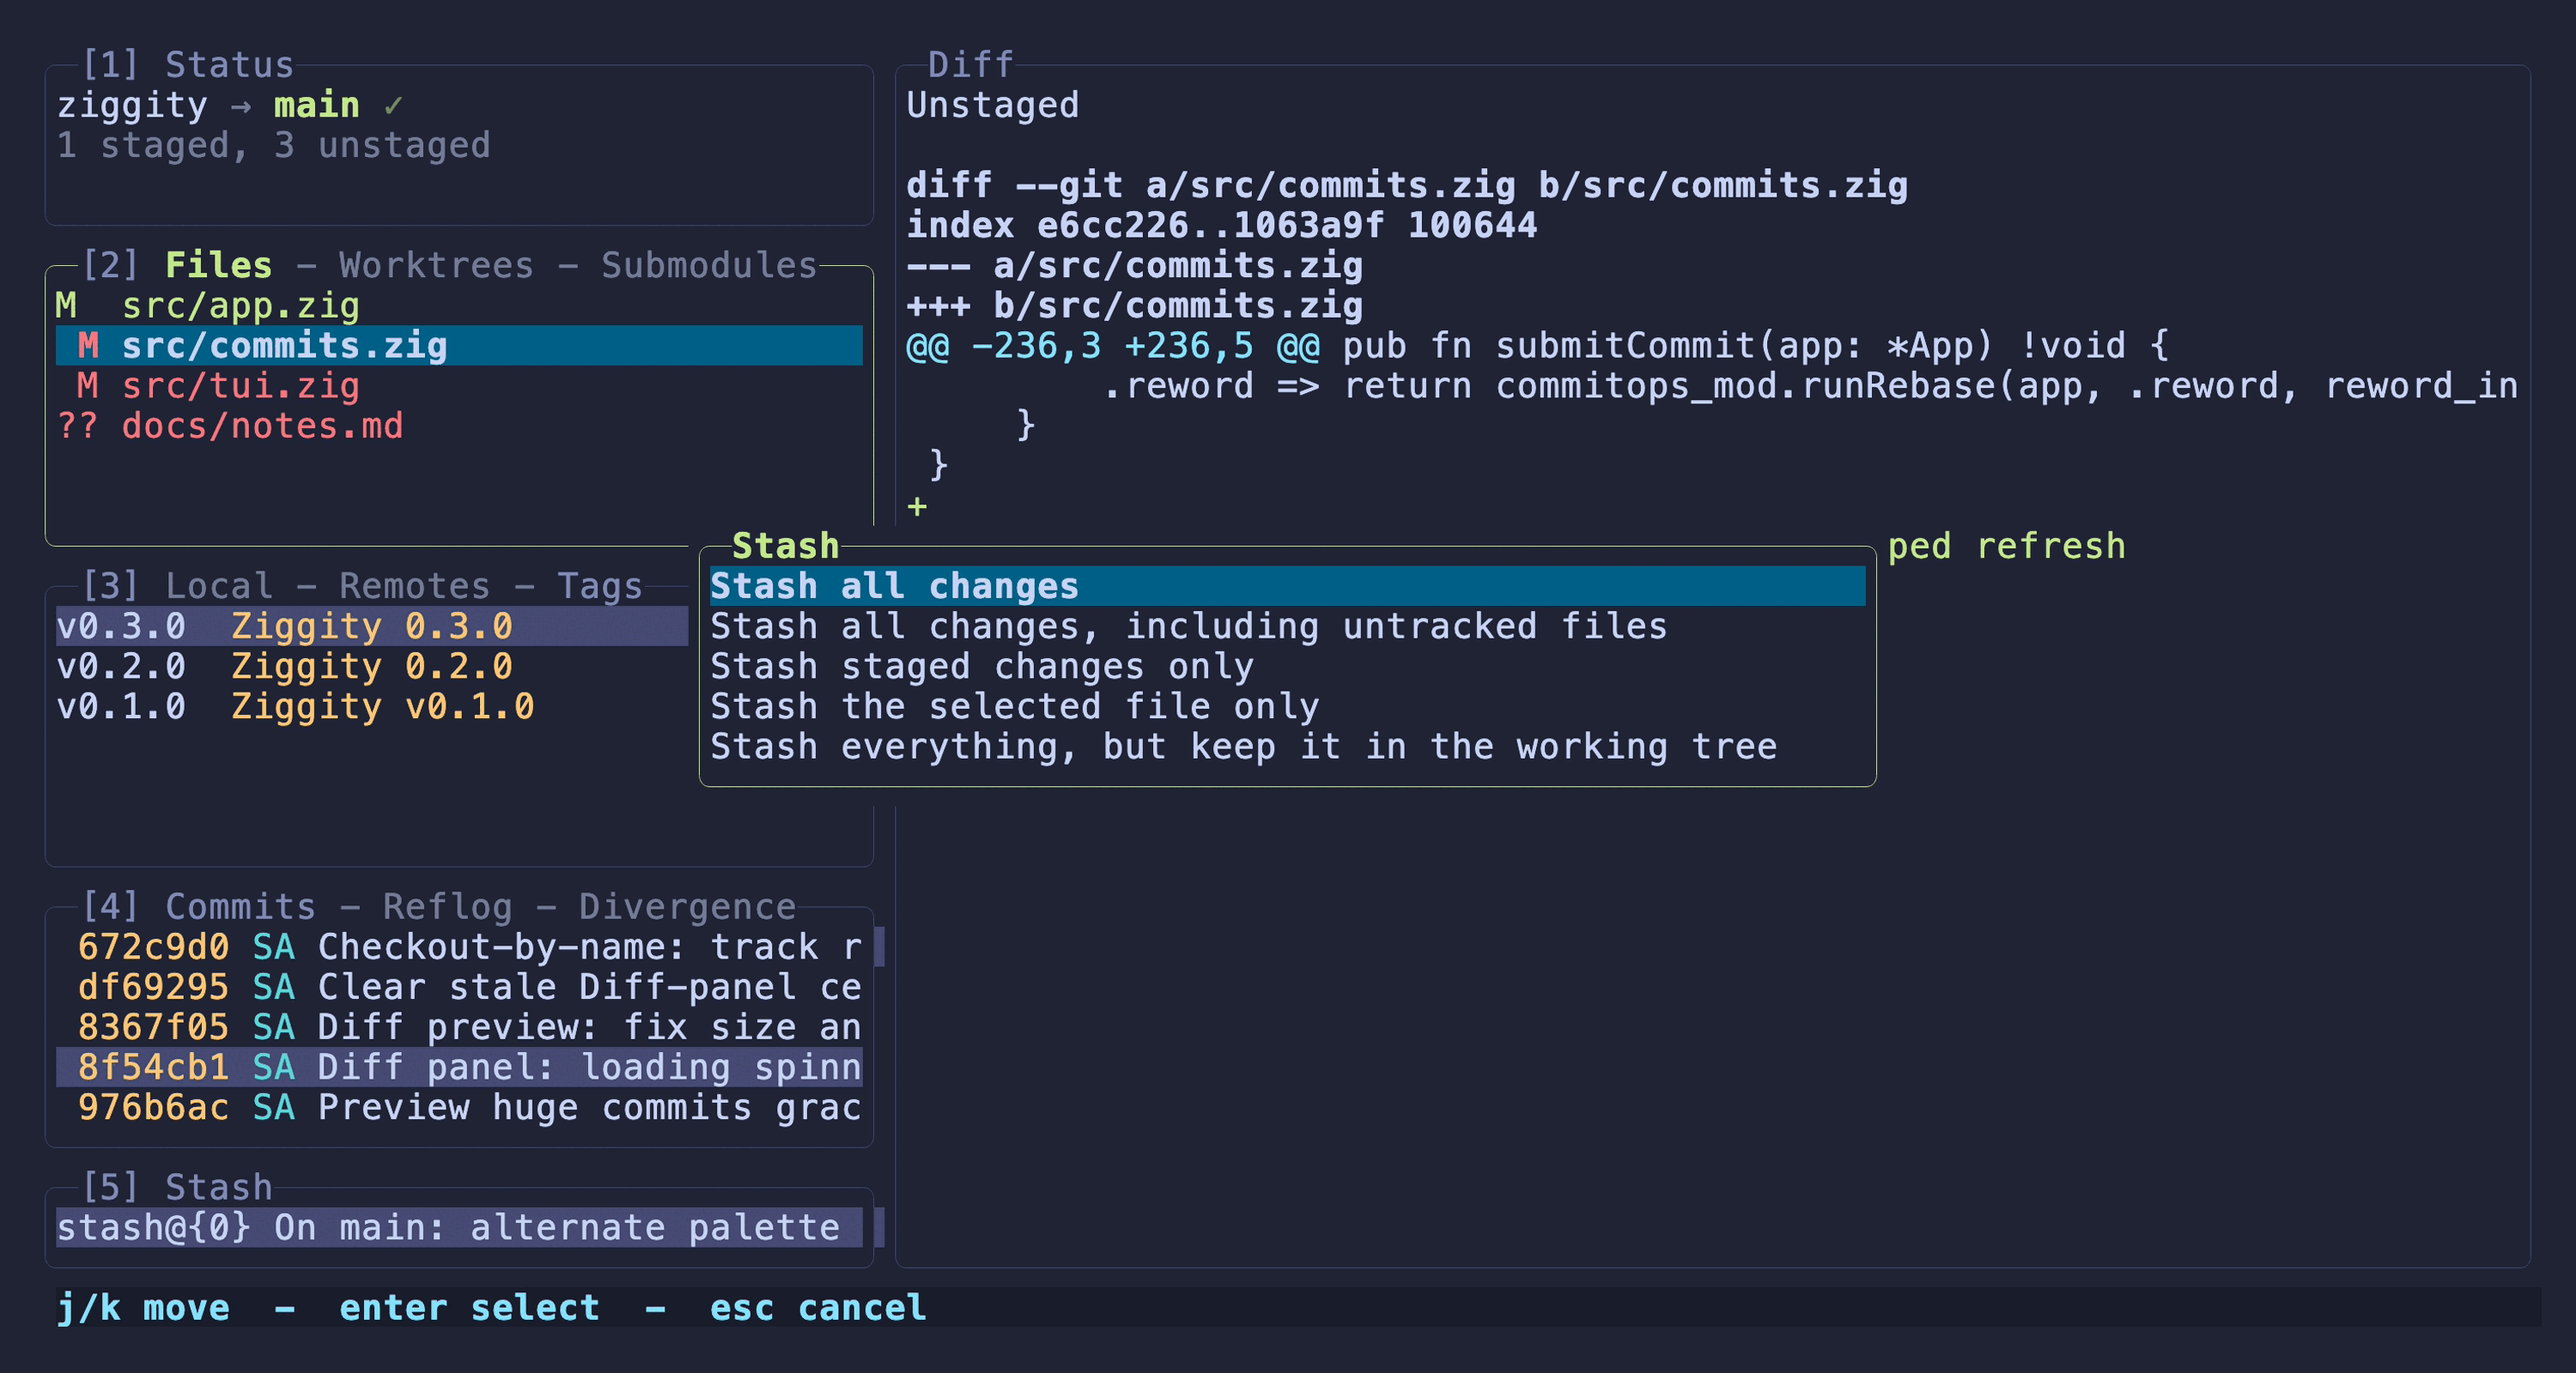
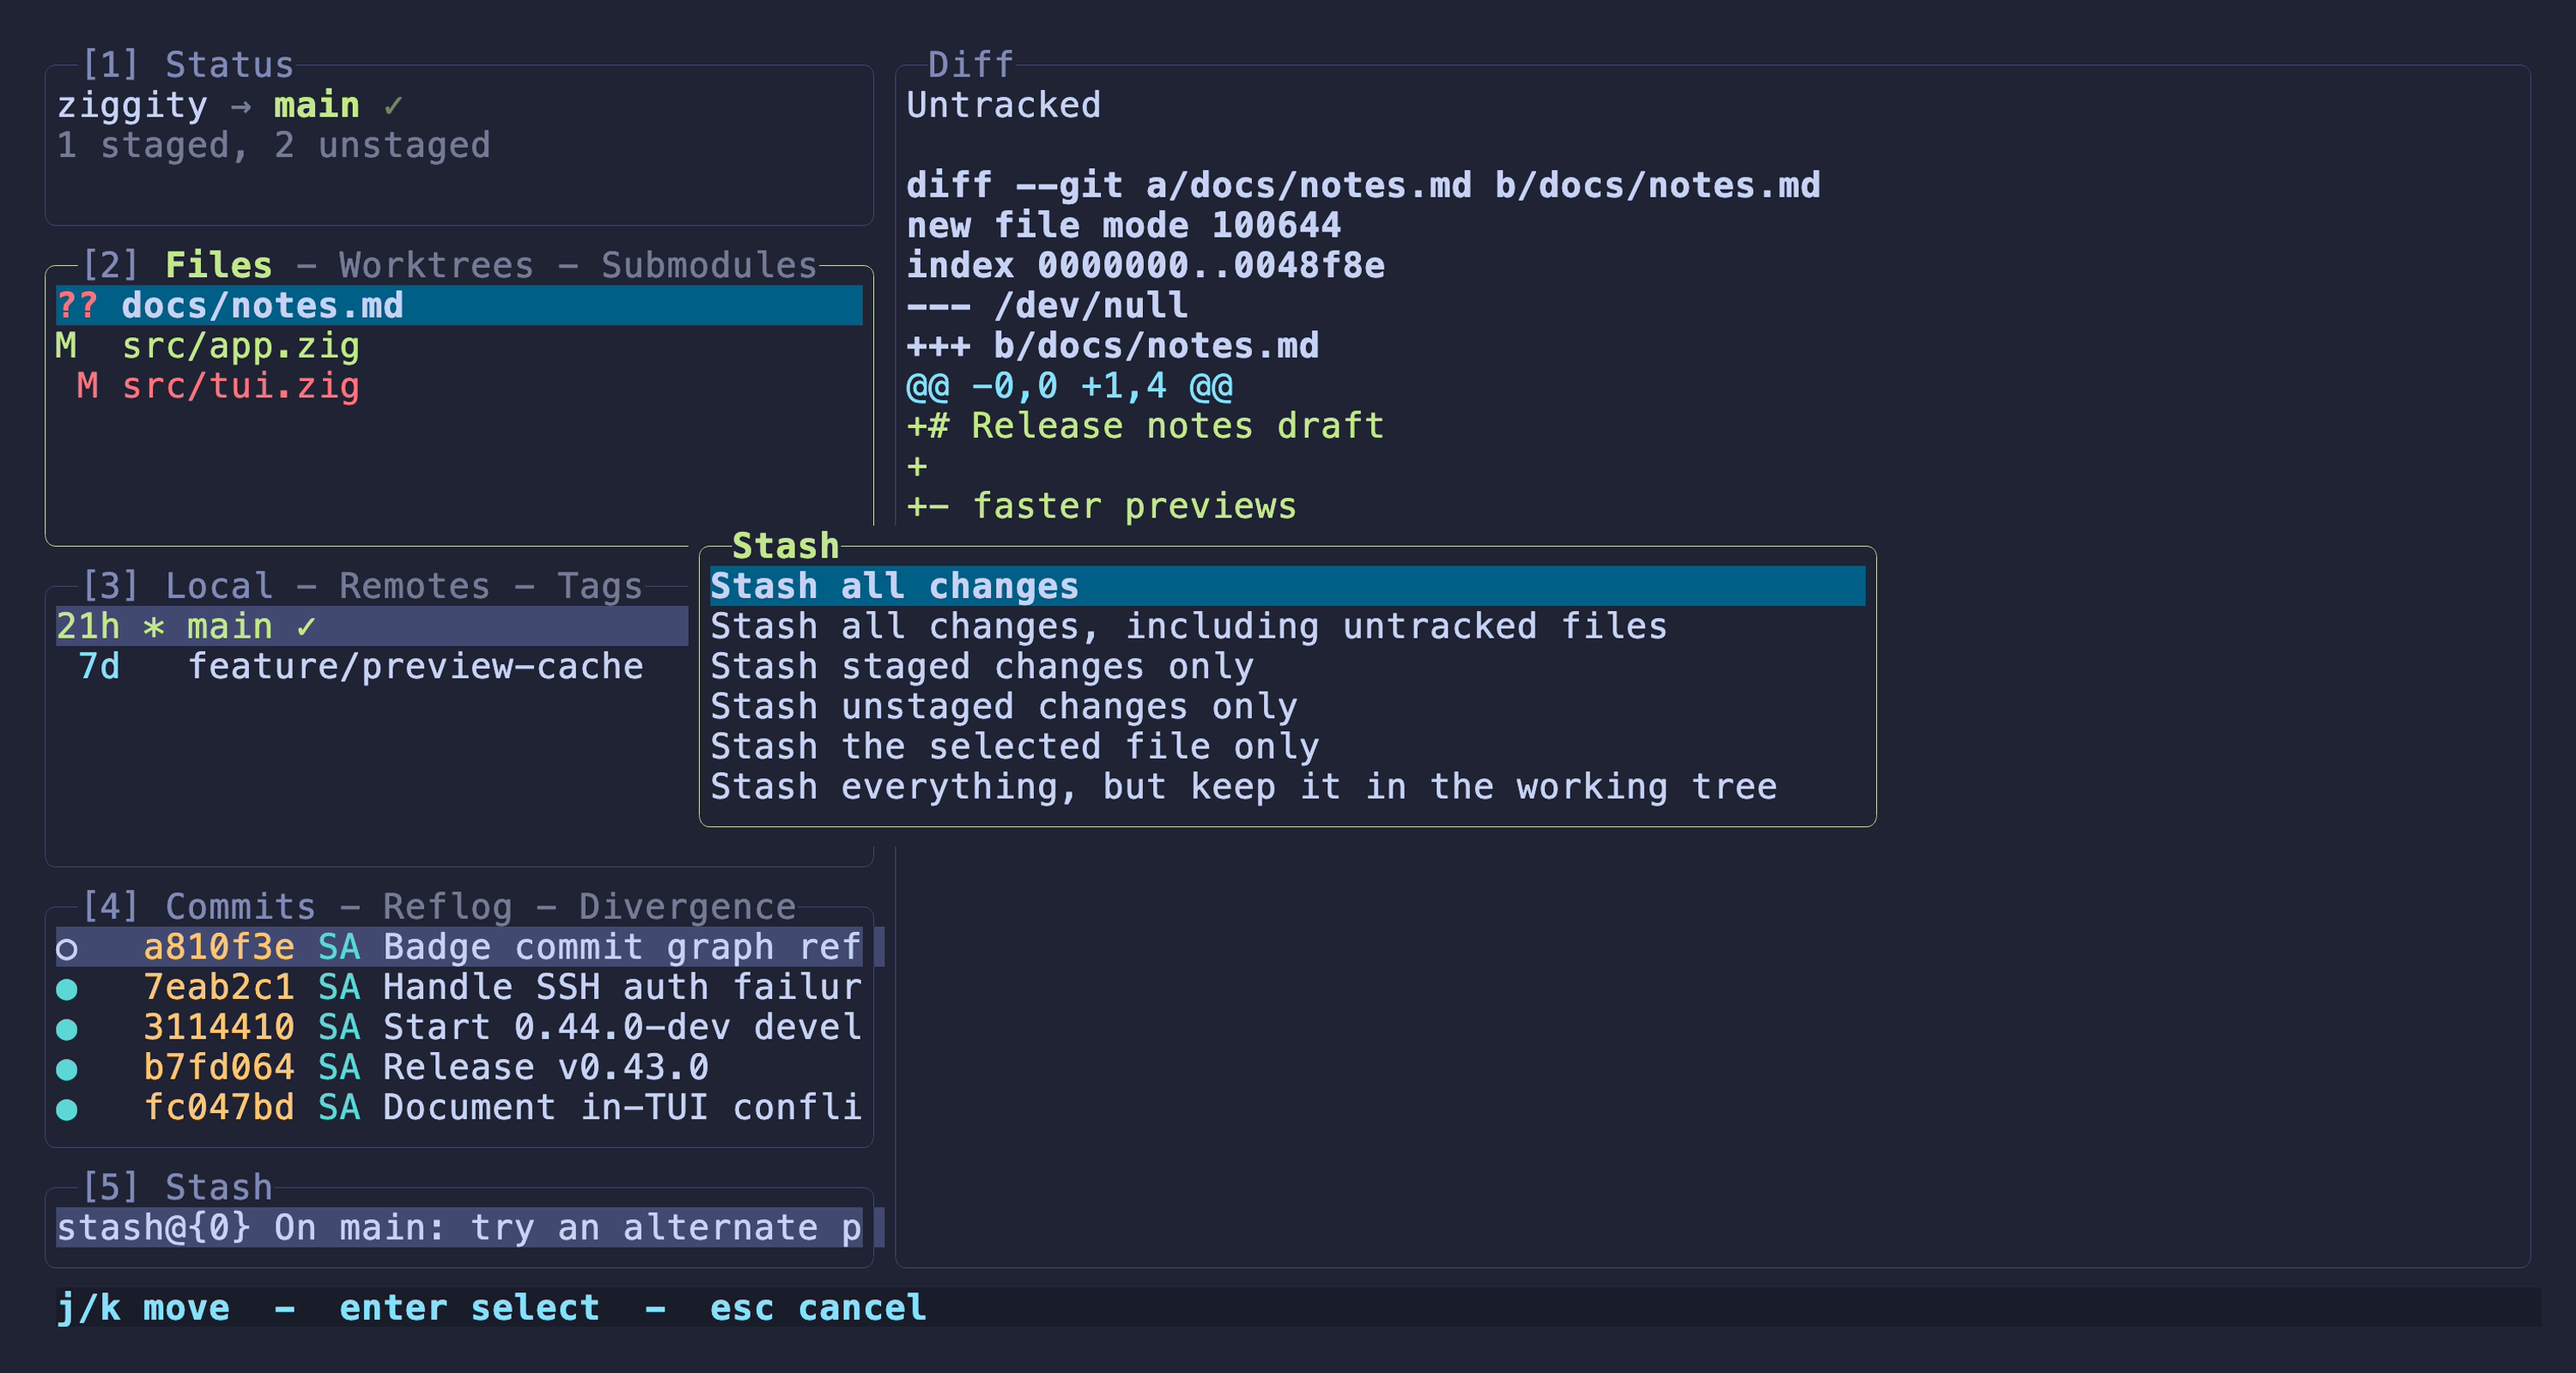
Add unstaged-only stash option

diff --git a/docs/features.md b/docs/features.md
@@ -144,9 +144,9 @@ tags with their messages.
 ### Stash
 
 A Stash panel with a diff preview. The stash menu (`s`) offers every variant
-(all, plus untracked, staged only, a single file, keep the working tree),
-each with an optional message, and `w` writes any stash to a `git apply`
-ready patch file.
+(all, plus untracked, staged only, unstaged only, a single file, keep the
+working tree), each with an optional message, and `w` writes any stash to a
+`git apply` ready patch file.
 
 ![Stash panel](screenshots/07-stash.png)
 
@@ -357,9 +357,9 @@ The animation itself is in the [README](../README.md).
   a reminder that `esc` exits and `W` opens the options, so the mode is never
   hidden. Diffing is only a view: commit, push, pull and the other actions
   keep working normally on the current branch and leave the mode untouched.
-- Stash menu (`s`): stash all, all plus untracked, staged only, just the
-  selected file, or keep everything (snapshot into a stash, untracked files
-  included, while leaving the working tree untouched). Each asks for an
+- Stash menu (`s`): stash all, all plus untracked, staged only, unstaged only,
+  just the selected file, or keep everything (snapshot into a stash, untracked
+  files included, while leaving the working tree untouched). Each asks for an
   optional message (empty = git's default `WIP on ...` name). Apply, pop,
   drop, rename (`r`), or write to a patch file (`w`, producing
   `stash-<n>.patch`, untracked included, `git apply` ready) on the Stash
